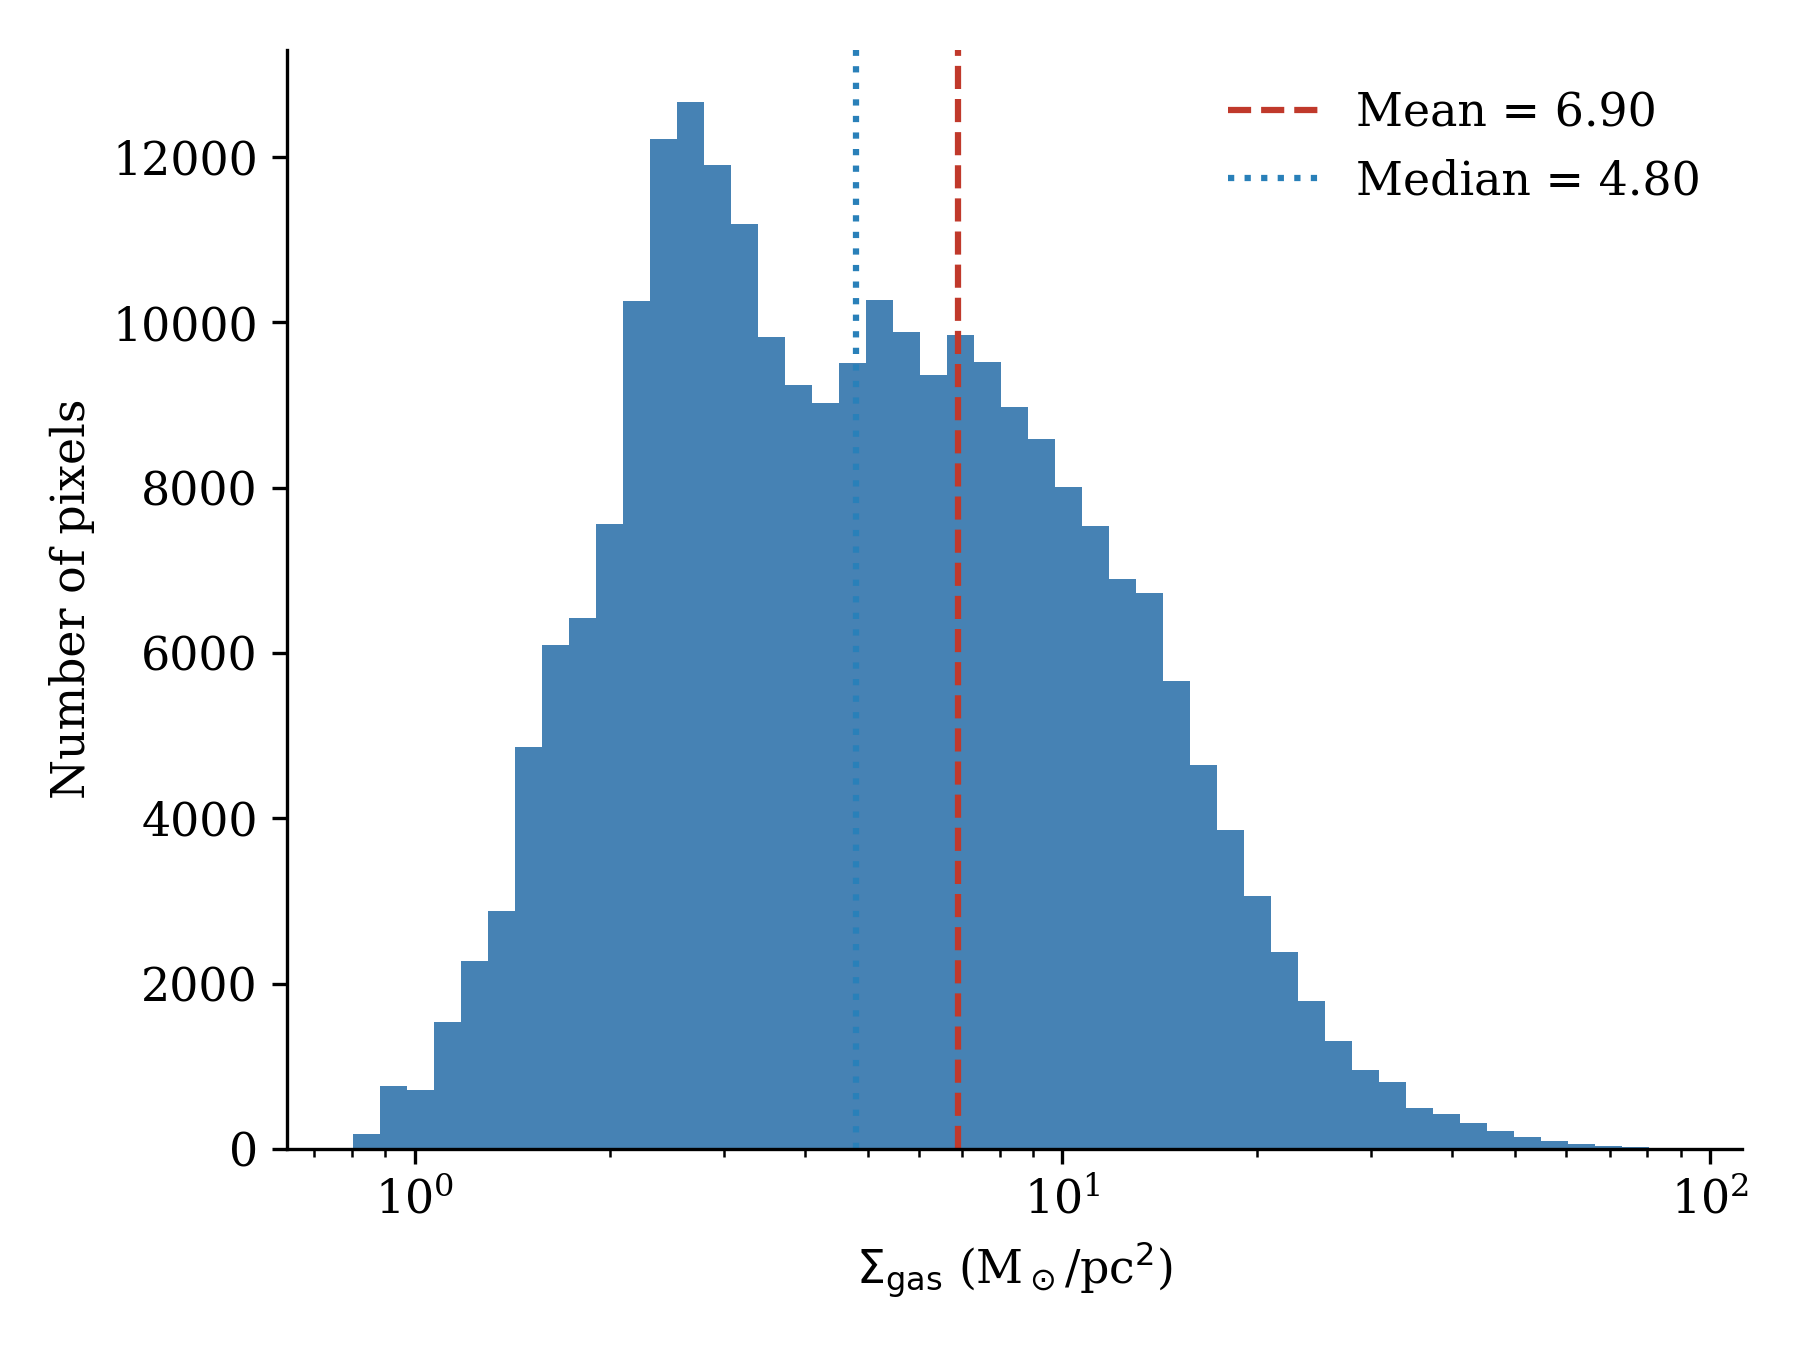
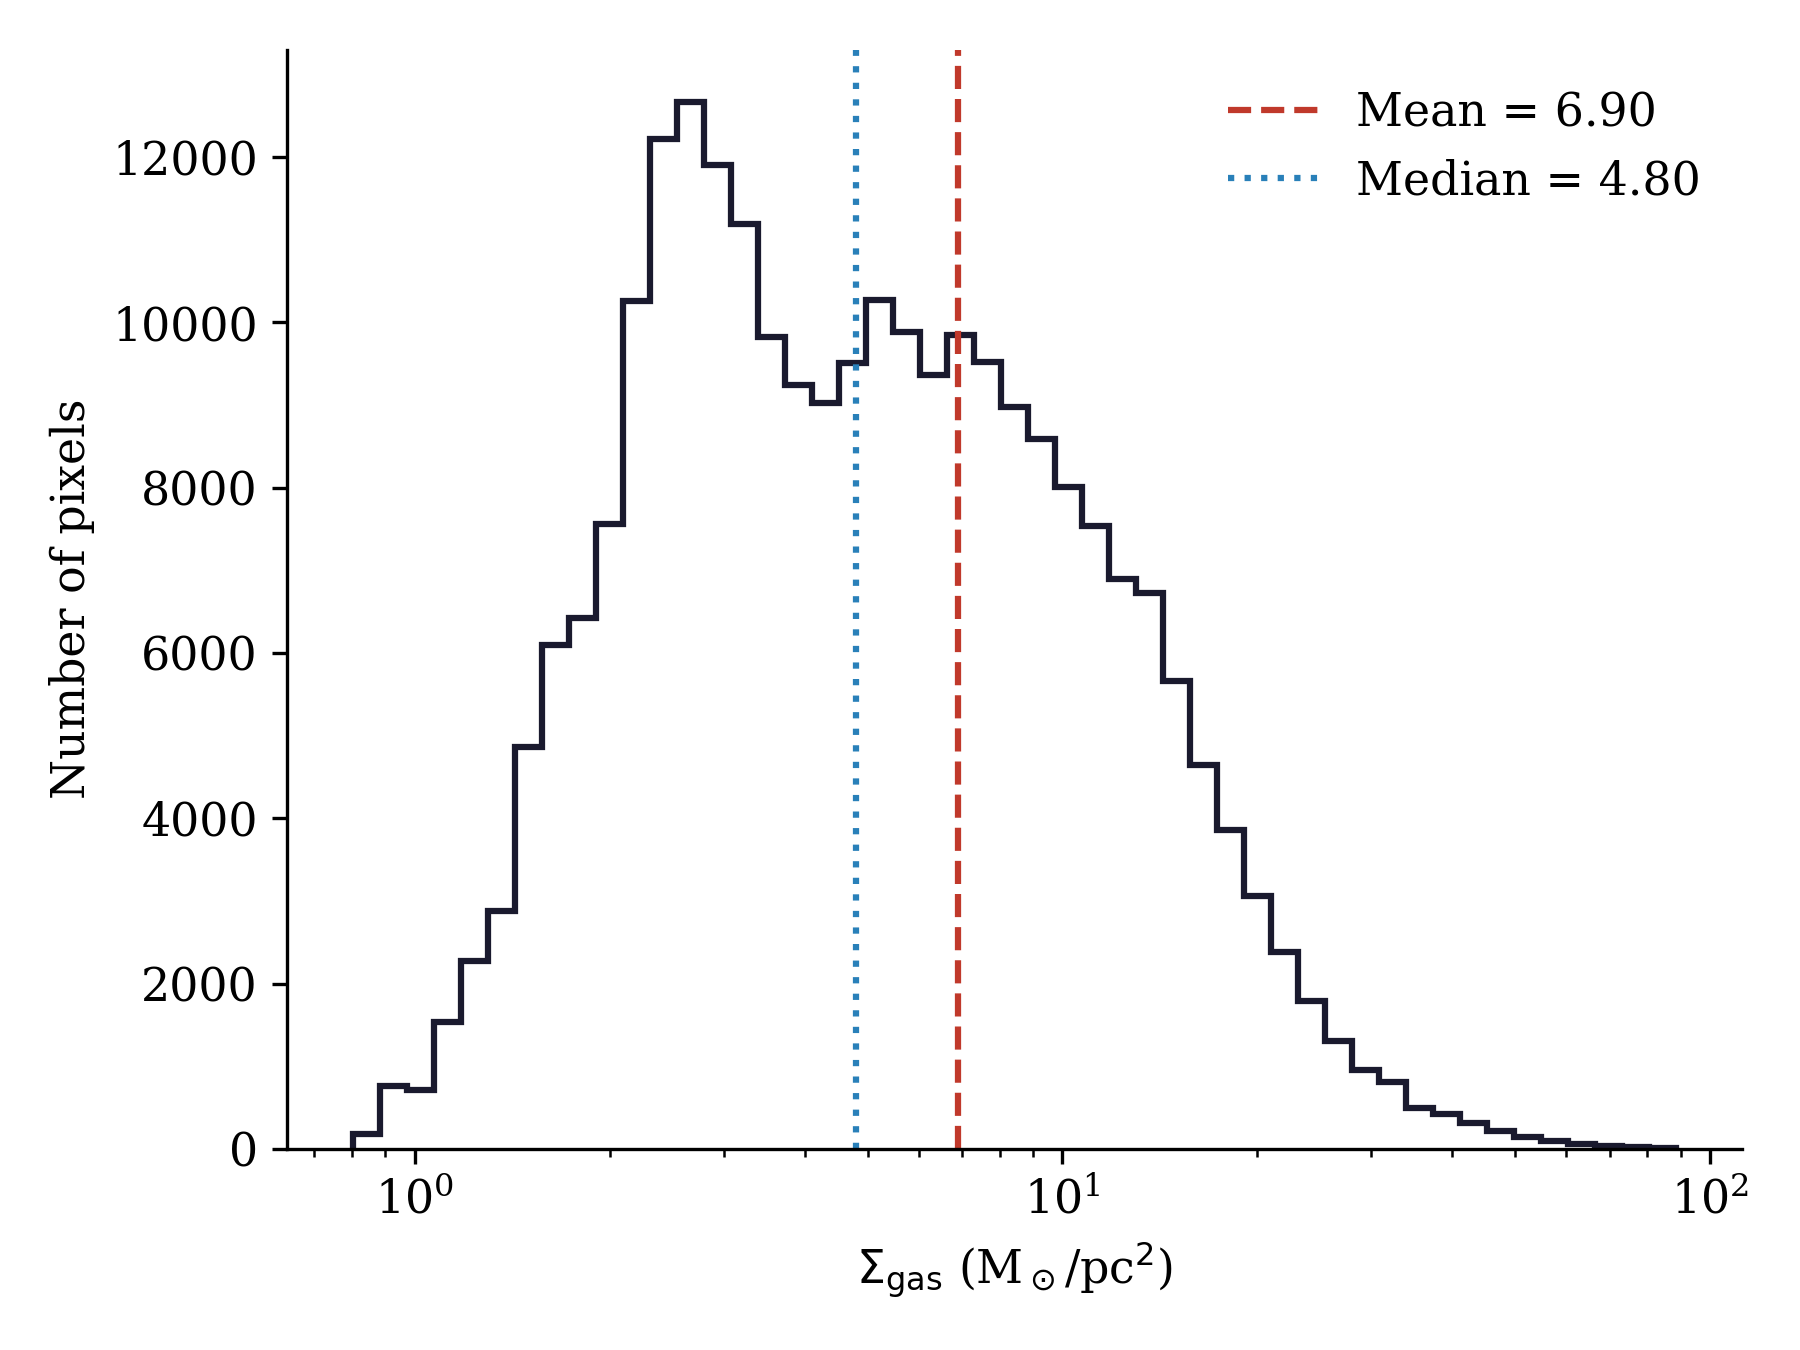
Style: Sigma_gas histogram as step outline instead of filled bars
Uses histtype='step' with COLOR_PTH, same bins/data as before.

Changed region(s): [[0.1867, 0.0622, 0.9333, 0.8711]]

diff --git a/pipeline/design_sigma_gas_histogram.py b/pipeline/design_sigma_gas_histogram.py
@@ -11,7 +11,7 @@ consistency with the map figure.
 import matplotlib.pyplot as plt
 import numpy as np
 
-from src.conventions import apply_style
+from src.conventions import COLOR_PTH, apply_style
 
 CACHE_PATH = "cache/sigma_gas_edenhofer.npz"
 OUTPUT_PATH = "figures/sigma_gas_histogram.png"
@@ -31,7 +31,7 @@ def main():
     # Sigma_gas spans two orders of magnitude and is right-skewed (mean > median),
     # so log-spaced bins on a log x-axis resolve the shape far better than linear.
     bins = np.logspace(np.log10(sigma_gas.min()), np.log10(sigma_gas.max()), N_BINS)
-    ax.hist(sigma_gas, bins=bins, color="steelblue", edgecolor="none")
+    ax.hist(sigma_gas, bins=bins, histtype="step", color=COLOR_PTH, linewidth=1.5)
     ax.set_xscale("log")
 
     ax.axvline(mean, color="#c0392b", linestyle="--", label=f"Mean = {mean:.2f}")
